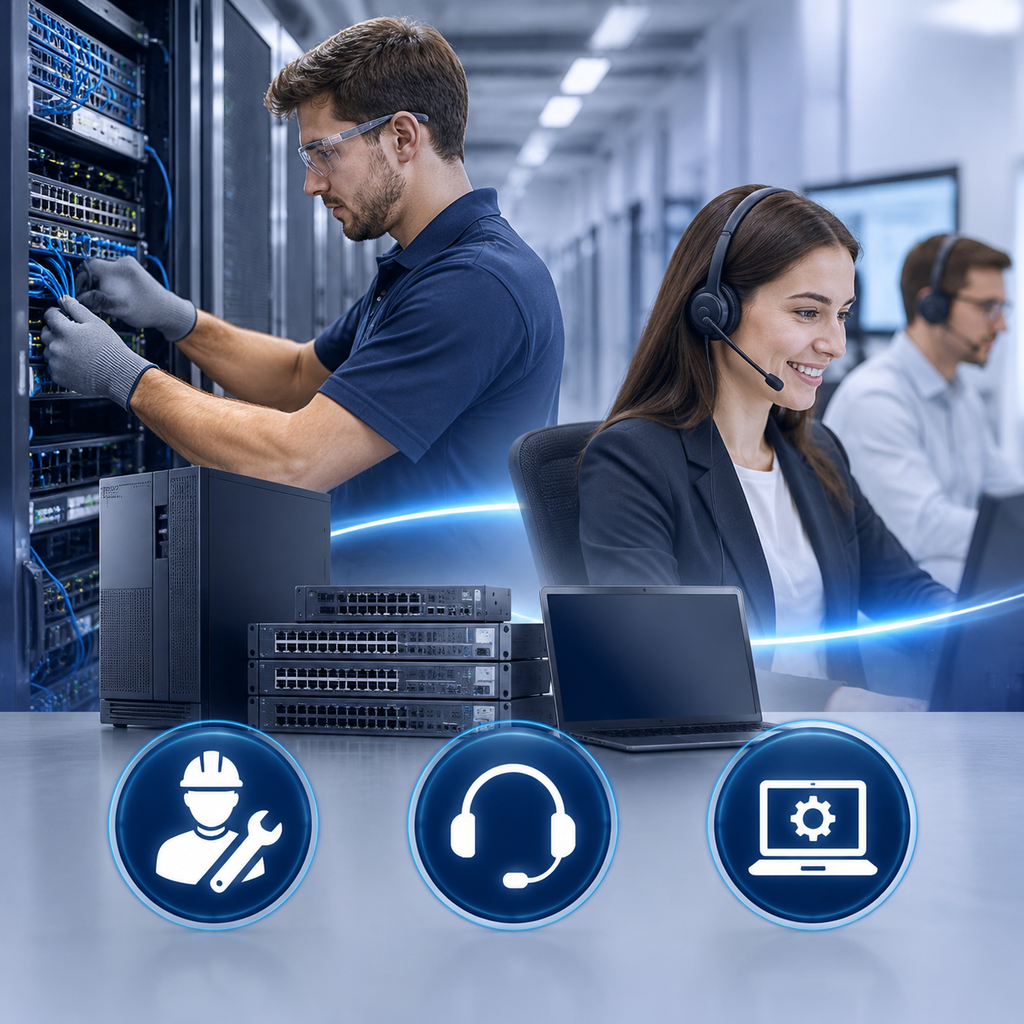
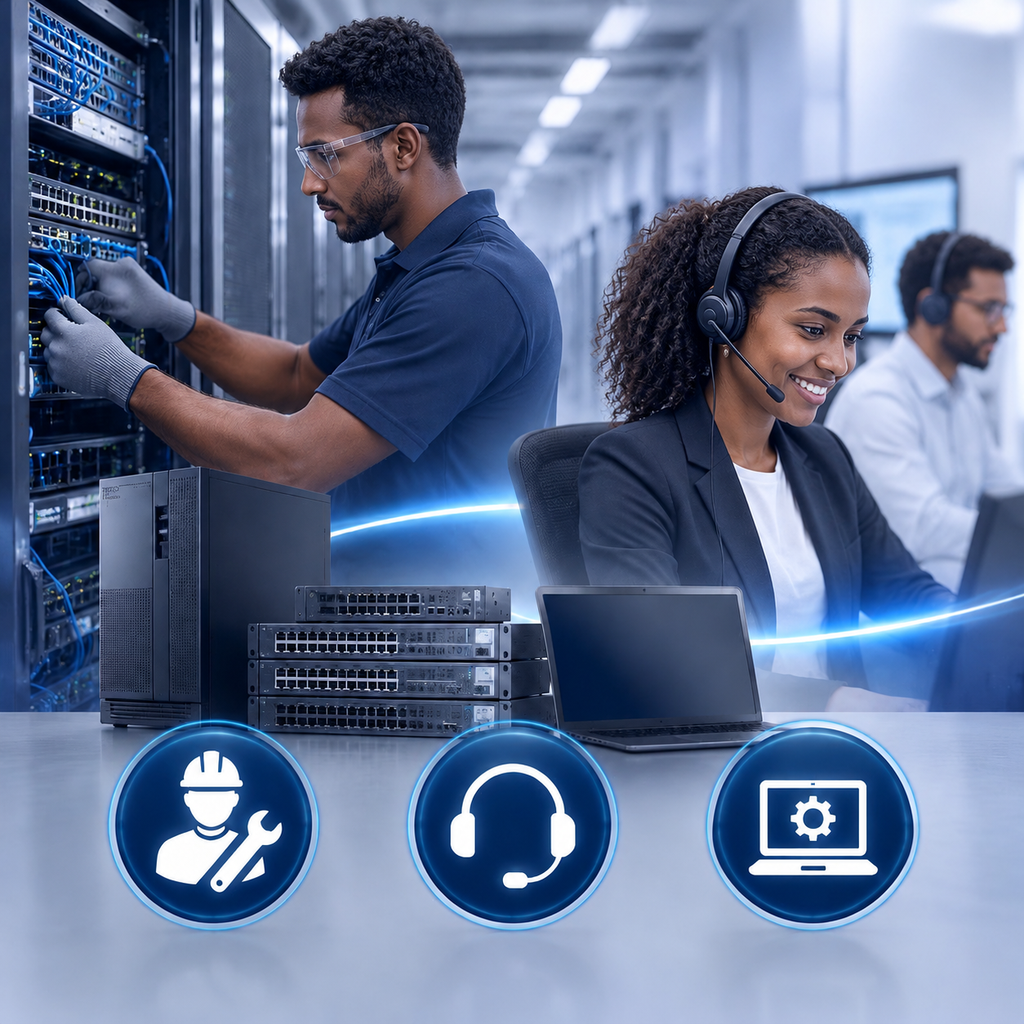
image updat

diff --git a/src/styles/home.css b/src/styles/home.css
@@ -60,9 +60,9 @@
   align-items: center;
   gap: 0.5rem;
   padding: 0.45rem 0.9rem;
-  color: var(--color-cyan);
-  background-color: rgba(25, 198, 217, 0.12);
-  border: 1px solid rgba(25, 198, 217, 0.25);
+  color: var(--primary-navy);
+  background-color: rgba(11, 31, 58, 0.12);
+  border: 1px solid rgba(23, 105, 255, 0.25);
   border-radius: 999px;
   font-size: 0.82rem;
   font-weight: 600;
@@ -74,8 +74,8 @@
   width: 8px;
   height: 8px;
   border-radius: 50%;
-  background-color: var(--color-cyan);
-  box-shadow: 0 0 0 4px rgba(25, 198, 217, 0.25);
+  background-color: var(--primary-blue);
+  box-shadow: 0 0 0 4px rgba(23, 105, 255, 0.25);
   animation: pulse-dot 2s ease-in-out infinite;
 }
 
@@ -112,12 +112,16 @@
 }
 
 .hero__meta {
-  display: flex;
+  display: inline-flex;
   align-items: center;
   gap: 0.5rem;
+  padding: 0.45rem 0.9rem;
   margin-top: 1.8rem;
-  color: rgba(255, 255, 255, 0.7);
-  font-size: 1.1rem;
+  color: var(--primary-navy);
+  background-color: rgba(11, 31, 58, 0.12);
+  border: 1px solid rgba(23, 105, 255, 0.25);
+  border-radius: 999px;
+  font-size: 0.92rem;
 }
 
 .hero__meta svg {
@@ -462,10 +466,9 @@
 /* (single hero definition above) */
 
 .hero__eyebrow {
-  color: #D9E8FF;
-  background: rgba(11, 31, 58, 0.42);
-  border-color: rgba(255, 255, 255, 0.2);
-  backdrop-filter: blur(8px);
+  color: var(--primary-navy);
+  background-color: rgba(11, 31, 58, 0.12);
+  border-color: rgba(23, 105, 255, 0.25);
 }
 
 .hero__title,
@@ -482,7 +485,7 @@
 
 .hero__text,
 .hero__meta {
-  color: rgba(255, 255, 255, 0.82);
+  color: var(--primary-navy);
 }
 
 .hero__meta svg {
@@ -768,8 +771,8 @@
   }
 
   .hero__meta {
-    align-items: flex-start;
-    font-size: 1rem;
+    align-items: center;
+    font-size: 0.85rem;
   }
 
   .hero__meta svg {
